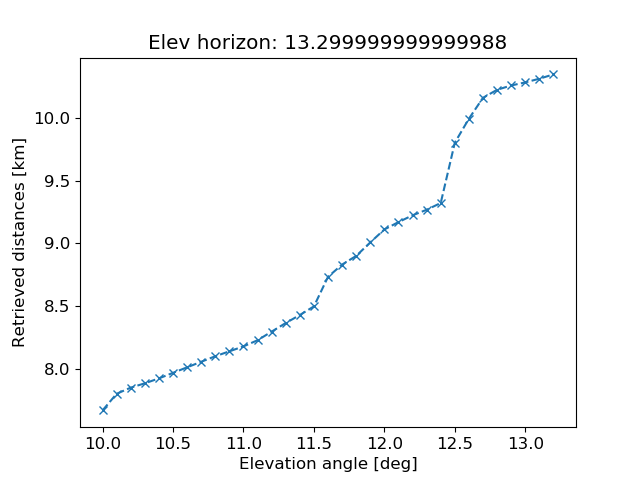
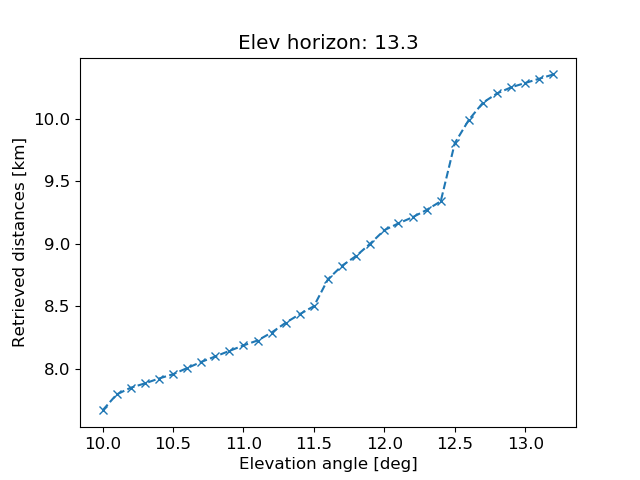
Fixed some minor bugs related to Etopo1 import and computation of elevation profiles

diff --git a/geonum/processing.py b/geonum/processing.py
@@ -23,7 +23,7 @@ from numpy import radians, cos, sin, arctan, pi, argmin, linspace,\
     tan, ceil, hypot, vstack, nanmin, nanmax, where, sign, diff,\
     logical_and, arange, nan, gradient, rad2deg
     #gradient
-
+from warnings import warn
 from scipy.ndimage import map_coordinates
 from scipy.interpolate import interp1d
 
@@ -38,8 +38,26 @@ class ElevationProfile(object):
     The profile is calculated between two geo point objects using a 
     provided topographic data grid which must cover the range spanned by 
     both points
+    
+    Parameters
+    ----------
+    topo_data : TopoData 
+        topography data object
+    observer : :obj:`GeoPoint` or :obj:`LatLon`
+        starting point of profile 
+    endpoint : :obj:`GeoPoint` or :obj:`LatLon`
+        stop point of profile 
+    interpolate : bool
+        if True, the profile is interpolated to a certain horizontal resolution
+    resolution : float
+        desired grid resolution in m for interpolation. Interpolation is 
+        performed if :attr:`interpolate` is True and if the actual 
+        resolution of the topo data is smaller than input, else, nothing is done
+    itp_type : str
+        interpolation type (e.g. "linear", "cubic")
     """
-    def __new__(cls, topo_data, observer, endpoint, resolution=5.):
+    def __new__(cls, topo_data, observer, endpoint, interpolate=True, 
+                resolution=5.0, itp_type="linear"):
         """These objects strictly can only be created with the right input, 
         
         For input specs see __init__ method
@@ -58,18 +76,13 @@ class ElevationProfile(object):
                     "created\nWrong input point not covered by input topodata")
         
         return super(ElevationProfile, cls).__new__(cls, topo_data, observer,
-                                                    endpoint, resolution)
+                                                    endpoint, interpolate,
+                                                    resolution, 
+                                                    itp_type)
         
-    def __init__(self, topo_data, observer, endpoint, resolution):
-        """Initiate and determine elevation profile
-        
-        :param TopoData topo_data: topography data object
-        :param (GeoPoint, LatLon) observer: starting point of profile 
-        :param (GeoPoint, LatLon) endpoint: stop point of profile 
-        :param float resolution (5): desired grid resolution in m. 
-            Interpolation is performed if topo data resolution is smaller than
-            input, else, nothing is done
-        """
+    def __init__(self, topo_data, observer, endpoint, interpolate=True, 
+                 resolution=5.0, itp_type="linear"):
+     
         self.topo_data = topo_data
         self.observer = observer #: coordinate of observer (start of profile)
         self.endpoint = endpoint #: coordinate of endpoint of profile
@@ -81,8 +94,12 @@ class ElevationProfile(object):
         self.line = None
         self.profile = None
         self.dists = None
-    
-        self.det_profile(resolution)
+
+        try:
+            self.det_profile(interpolate, resolution, itp_type)
+        except Exception as e:
+            warn("Failed to compute elevation profile. Error msg: %s"
+                 %repr(e))
         
     @property
     def dist_hor(self):
@@ -144,7 +161,7 @@ class ElevationProfile(object):
         idx = argmin(abs(self.dists - dist))
         return self.slope_angles()[idx]
         
-    def det_profile(self, resolution=5.):
+    def det_profile(self, interpolate=True, resolution=5.0, itp_type="linear"):
         """Determines the elevation profile
         
         Searches the closest tiles in the topo data grid for both observer and
@@ -153,9 +170,20 @@ class ElevationProfile(object):
         from the topo data along the connection vector of the 2 points using 
         2D spline intepolation)
         
-        :param float resolution (5): desired profile resolution in m (uses
-            interpolation of profile if applicable)
-            
+        Parameters
+        ----------
+        interpolate : bool
+            if True, the profile is interpolated to a certain horizontal resolution
+        resolution : float
+            desired grid resolution in m for interpolation. Interpolation is 
+            performed if :attr:`interpolate` is True and if the actual 
+            resolution of the topo data is smaller than input, else, nothing is done
+        itp_type : str
+            interpolation type (e.g. "linear", "cubic")
+        
+        Returns
+        -------
+                
         """
         data = self.topo_data
         idx_lon_0 = argmin(abs(data.lons - self.observer.lon.decimal_degree))
@@ -165,18 +193,24 @@ class ElevationProfile(object):
         
         self.line = l = LineOnGrid(idx_lon_0, idx_lat_0, 
                                    idx_lon_1, idx_lat_1)
+        
         z = l.get_line_profile(data.data)
         self._observer_topogrid = GeoPoint(data.lats[idx_lat_0],\
                                 data.lons[idx_lon_0], topo_data = data)
         self._endpoint_topogrid = GeoPoint(data.lats[idx_lat_1],\
                                 data.lons[idx_lon_1], topo_data = data)
-        dists = linspace(0, self.dist_hor, l.length)
-        res0 = (dists[1] - dists[0]) * 1000
-        fac = int(ceil(res0 / resolution))
-        if fac > 1:
-            fz = interp1d(dists, z, kind = 'cubic')
-            dists = linspace(0, self.dist_hor, l.length * fac)
-            z = fz(dists)
+        dists = linspace(0, self.dist_hor, l.length + 1)
+        if interpolate:
+            try:
+                res0 = (dists[1] - dists[0]) * 1000
+                fac = int(ceil(res0 / resolution))
+                if fac > 1:
+                    fz = interp1d(dists, z, kind=itp_type)
+                    dists = linspace(0, self.dist_hor, l.length * fac)
+                    z = fz(dists)
+            except Exception as e:
+                warn("Failed to perform interpolation of retrieved elevation "
+                     "profile. Error msg: %s" %repr(e))
         self.dists = dists
         self.profile = z
      
@@ -420,8 +454,8 @@ class LineOnGrid(object):
         length = self.length
         x0, y0 = self.start     
         x1, y1 = self.stop
-        x = linspace(x0, x1, length)
-        y = linspace(y0, y1, length)
+        x = linspace(x0, x1, length+1)
+        y = linspace(y0, y1, length+1)
         self.profile_coords = vstack((y,x))
     
     @property

diff --git a/geonum/topodata.py b/geonum/topodata.py
@@ -165,7 +165,7 @@ class Etopo1Access(TopoFile):
     instructions on the data access.
     
     """
-    def __init__(self, local_path=None, file_name="ETOPO1_Ice_g_gmt4.grd"):
+    def __init__(self, local_path=None, file_name=None):
         """Class initialisation
         
         :param str local_path: directory where Etopo data files are stored
@@ -173,9 +173,8 @@ class Etopo1Access(TopoFile):
         
         """
         if not NETCDF_AVAILABLE:
-            warn("Etopo1 file could not be initiated, netCDF4 library not "
-                "installed...")
-            return None
+            raise NameError("Etopo1Access class cannot be initiated. Please "
+                            "install netCDF4 library first")
             
         self.topo_id = "etopo1"
         
@@ -184,8 +183,8 @@ class Etopo1Access(TopoFile):
 
         self.supported_topo_files = ["ETOPO1_Ice_g_gmt4.grd",
                                      "ETOPO1_Bed_g_gmt4.grd"]
-    
-        self._check_topo_path(local_path) #checks input and if applicable adds to database
+        #checks input and if applicable adds to database
+        self._check_topo_path(local_path) 
         if local_path is None or not exists(local_path):
             from geonum import LOCAL_TOPO_PATH
             self.local_path = LOCAL_TOPO_PATH
@@ -202,6 +201,11 @@ class Etopo1Access(TopoFile):
             raise TopoAccessError("File %s could not be found in local "
                 "topo directory: %s" %(self.file_name, self.local_path))
     
+    @property
+    def file_path(self):
+        """Return full file path of current topography file"""
+        return join(self.local_path, self.file_name)
+    
     def _check_topo_path(self, path):
         """Check if path exists and if it is already included in database"""
         if path is None or not exists(path):
@@ -213,9 +217,7 @@ class Etopo1Access(TopoFile):
                 print("Adding new default local topo data path to "
                     "file LOCAL_TOPO_DATA.txt: %s" %path)
             f.close()
-            
-
-    
+        
     def _get_all_local_topo_paths(self):
         """Get all search paths for topography files"""
         from geonum import LOCAL_TOPO_PATH
@@ -234,7 +236,7 @@ class Etopo1Access(TopoFile):
         if path is None or not exists(path):
             return False
         
-    def _search_topo_file(self, path = None):
+    def _search_topo_file(self, path=None):
         """Checks if a valid etopo data file can be found in local folder
         
         Searches in ``self.local_path`` for any of the file names specified 
@@ -247,7 +249,7 @@ class Etopo1Access(TopoFile):
         fnames = listdir(path)
         for name in fnames:
             if name in self.supported_topo_files:
-                self.topo_file = name
+                self.file_name = name
                 self.local_path = path
                 print("Found match, setting current filepath: %s" 
                 %self.file_path)
@@ -270,12 +272,6 @@ class Etopo1Access(TopoFile):
             if self._search_topo_file(path):
                 return True
         return False
-        
-    @property
-    def file_path(self):
-        """Return full file path of current topography file"""
-        return join(self.local_path, self.file_name)
-
         
     def set_file_location(self, full_path):
         """Set the full file path of a topography data file
@@ -447,7 +443,7 @@ class TopoDataAccess(object):
     
     Default access mode is SRTM. 
     """
-    def __init__(self, mode="srtm", local_path=""):
+    def __init__(self, mode="srtm", local_path=None):
         """Class initialisation
         
         :param str mode: choose between one of the supported data
@@ -481,9 +477,12 @@ class TopoDataAccess(object):
         :raises TopoAccessError: if mode "etopo1" and corresponding data 
             file cannot be found at ``self.local_path``
         """
-        if local_path is not None and exists(local_path):
-            print("Updating local topography access path...")
+        if local_path is not None: 
+            if not exists(local_path):
+                raise ValueError("Failed to set local topography path, path "
+                                 "does not exist: %s" %local_path)
             self.local_path = local_path
+        
         
         if not mode in self.modes:
             raise InvalidTopoMode("Mode %s not supported...\nSupported modes:"
@@ -578,8 +577,8 @@ class TopoData(object):
         """
         self.data_id = data_id #: ID of topodata file
 
-        self.lats = lats
-        self.lons = lons
+        self.lats = lats #asarray(lats)
+        self.lons = lons #asarray(lons)
         if repl_nan_minval:
             data[isnan(data)] = nanmin(data)
         

diff --git a/geonum/mapping.py b/geonum/mapping.py
@@ -122,7 +122,7 @@ class Map(Basemap):
         if isinstance(topo, TopoData):
             self.topo_data = topo
         
-    def load_topo_data(self, mode="srtm", local_path=""):
+    def load_topo_data(self, mode="srtm", local_path=None):
         """Geonum wrapper for topography access"""
         ta = TopoDataAccess(mode, local_path)
         try:
